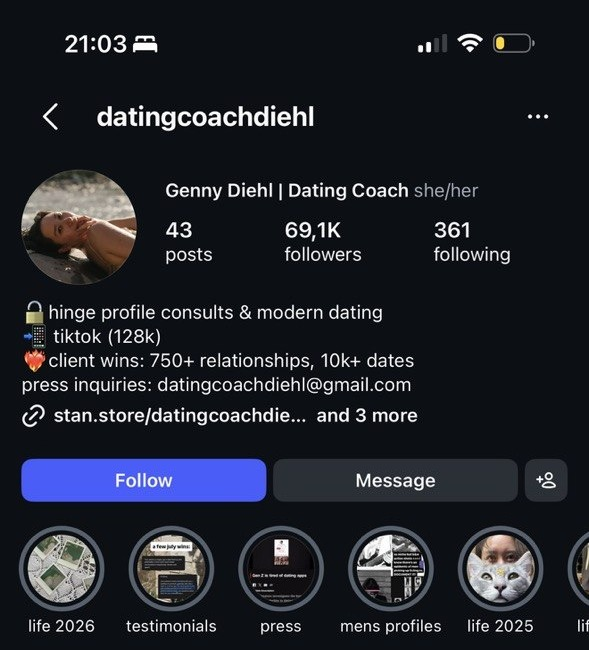
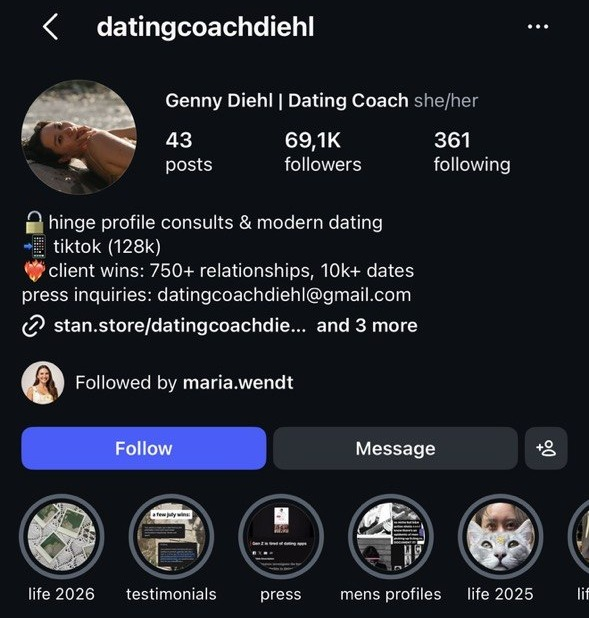
Genny: $20k a month headline, profile screenshot keeps Followed by maria.wendt

diff --git a/index.html b/index.html
@@ -4,17 +4,17 @@
   <meta charset="utf-8" />
   <meta name="viewport" content="width=device-width, initial-scale=1" />
   <title>Genny Webinar Funnel</title>
-  <meta name="description" content="Genny, adding an extra $100k/mo to your coaching" />
+  <meta name="description" content="Genny, adding an extra $20k/mo to your coaching" />
   <meta name="robots" content="noindex" />
-  <meta property="og:title" content="Genny, adding an extra $100k/mo to your coaching" />
-  <meta property="og:description" content="Genny, adding an extra $100k/mo to your coaching" />
+  <meta property="og:title" content="Genny, adding an extra $20k/mo to your coaching" />
+  <meta property="og:description" content="Genny, adding an extra $20k/mo to your coaching" />
   <meta property="og:image" content="https://nikola424.github.io/for-genny/og.png?v=1" />
   <meta property="og:image:width" content="1200" />
   <meta property="og:image:height" content="630" />
   <meta property="og:url" content="https://nikola424.github.io/for-genny/" />
   <meta property="og:type" content="website" />
   <meta name="twitter:card" content="summary_large_image" />
-  <meta name="twitter:title" content="Genny, adding an extra $100k/mo to your coaching" />
+  <meta name="twitter:title" content="Genny, adding an extra $20k/mo to your coaching" />
   <meta name="twitter:image" content="https://nikola424.github.io/for-genny/og.png?v=1" />
   <!-- Generated per build from the PROSPECT'S logo: node scripts/make_favicon.js {folder} -->
   <link rel="icon" href="assets/img/favicon.png" type="image/png" />
@@ -67,7 +67,7 @@
 
       <div class="hero__inner container">
         <p class="eyebrow reveal">Made specially for @datingcoachdiehl</p>
-        <h1 class="hero__title reveal" data-mode="funnel">I spent the last 96 hours building a proven system that could add an extra <span class="mark">$100k</span> a month to your coaching, without adding a single extra hour to your week.</h1>
+        <h1 class="hero__title reveal" data-mode="funnel">I spent the last 96 hours building a proven system that could add an extra <span class="mark">$20k</span> a month to your coaching, without adding a single extra hour to your week.</h1>
 
         <!-- Hero video: Loom / Wistia embed when PITCH_CONFIG.heroEmbed is set, else the native player -->
         <div class="hplayer reveal">
@@ -141,7 +141,7 @@
             <p class="beat__kicker">YouTube</p>
             <h3 class="beat__title">You have 128K on TikTok, and almost nobody on YouTube yet.</h3>
             <p class="beat__text">People need to watch a lot of videos to build trust with somebody, so YouTube is the best place for that.</p>
-          </div><div class="beat__aside"><figure class="shot shot--wide"><img src="assets/img/her-profile.jpg?v=2" alt="Genny&rsquo;s Instagram bio" loading="lazy" /><figcaption>Your bio today</figcaption></figure></div>
+          </div><div class="beat__aside"><figure class="shot shot--wide"><img src="assets/img/her-profile.jpg?v=3" alt="Genny&rsquo;s Instagram bio" loading="lazy" /><figcaption>Your bio today</figcaption></figure></div>
         </article>
         <article class="beat reveal">
           <div class="beat__num"><span class="beat__idx">02</span><span class="beat__rule"></span></div>
